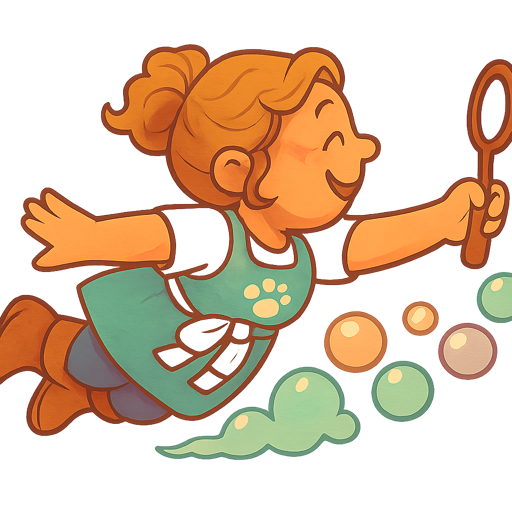
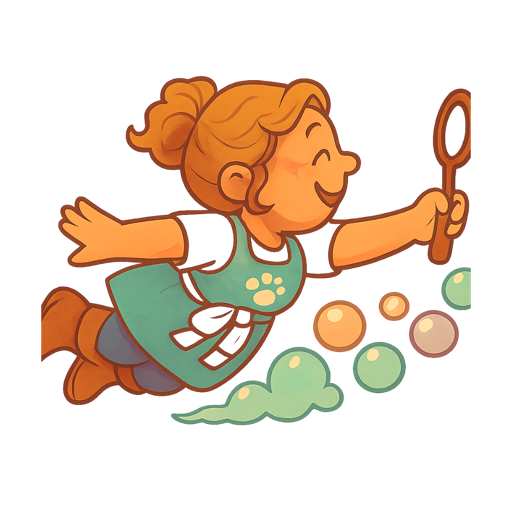
Play over the internet: npm run share (Cloudflare quick tunnel) and PUBLIC_URL
The QR code points at the public link when sharing; dev endpoints, the
public-url setter and the board role are limited to this machine so a
public link cannot reset or drive the game. Also lands the per-hero
flying sprites (stopgap frames until image credits are topped up).

diff --git a/server/index.js b/server/index.js
@@ -31,10 +31,24 @@ app.get('/', (req, res) => res.redirect('/board/'));
 
 const room = crypto.randomBytes(2).toString('hex').toUpperCase().replace(/[^A-Z0-9]/g, 'A').slice(0, 4);
 const ip = lanIp();
-const joinUrl = `http://${ip}:${PORT}/play/?room=${room}`;
+// PUBLIC_URL (e.g. https://my-tunnel.example.com) makes the QR code point at a public address; otherwise the LAN address is used.
+const lanJoinUrl = `http://${ip}:${PORT}/play/?room=${room}`;
+const publicJoin = (base) => `${String(base).replace(/\/+$/, '')}/play/?room=${room}`;
+let joinUrl = process.env.PUBLIC_URL ? publicJoin(process.env.PUBLIC_URL) : lanJoinUrl;
+// requests that come from this machine directly (not through a tunnel or proxy)
+function isLocalReq(addr, headers = {}) { const a = String(addr || ''); const loop = a === '127.0.0.1' || a === '::1' || a === '::ffff:127.0.0.1'; return loop && !headers['cf-connecting-ip'] && !headers['x-forwarded-for'] && !headers['x-real-ip']; }
 const game = new Game({ room, joinUrl, winTarget: Number(process.env.WIN_TARGET || 12), grabbleTarget: Number(process.env.GRABBLE_TARGET || 7) });
 
-app.get('/api/info', (req, res) => res.json({ room, joinUrl, lanIp: ip, port: PORT }));
+app.get('/api/info', (req, res) => res.json({ room, joinUrl, lanJoinUrl, lanIp: ip, port: PORT }));
+// the share script registers the tunnel's public address here (local requests only)
+app.post('/api/public-url', (req, res) => {
+  if (!isLocalReq(req.socket.remoteAddress, req.headers)) return res.status(403).json({ ok: false });
+  const base = String(req.body?.url || ''); if (base && !/^https?:\/\/[^\s]+$/.test(base)) return res.status(400).json({ ok: false, error: 'bad url' });
+  joinUrl = base ? publicJoin(base) : lanJoinUrl; game.joinUrl = joinUrl; game.pushState();
+  console.log(`  Phones (anywhere):            ${joinUrl}`); res.json({ ok: true, joinUrl });
+});
+// dev helpers are for this machine only, never through the public link
+app.use('/api/dev', (req, res, next) => isLocalReq(req.socket.remoteAddress, req.headers) ? next() : res.status(403).json({ ok: false, error: 'local only' }));
 app.get('/api/state', (req, res) => res.json(game.toState()));
 app.get('/api/qr.svg', async (req, res) => { const url = String(req.query.url || joinUrl); res.type('svg').send(await QRCode.toString(url, { type: 'svg', margin: 1, color: { dark: '#2B2440', light: '#00000000' } })); });
 // dev helpers (used by tests and the grader)
@@ -69,9 +83,11 @@ game.on('event', e => io.emit('event', e));
 let boardSockets = new Set();
 io.on('connection', socket => {
   socket.emit('state', game.toState());
-  socket.on('board:hello', (p = {}) => { boardSockets.add(socket.id); socket.data.isBoard = true; game.setBoardConnected(true, !!p.ready); });
+  // only a board on this machine drives the game (a board opened through the public link just watches)
+  const localSocket = isLocalReq(socket.handshake.address, socket.handshake.headers) || process.env.ALLOW_REMOTE_BOARD === '1';
+  socket.on('board:hello', (p = {}) => { if (!localSocket) return; boardSockets.add(socket.id); socket.data.isBoard = true; game.setBoardConnected(true, !!p.ready); });
   socket.on('board:ready', () => { if (socket.data.isBoard) game.setBoardReady(true); });
-  socket.on('board:animDone', ({ eventId } = {}) => game.ackEvent(eventId));
+  socket.on('board:animDone', ({ eventId } = {}) => { if (socket.data.isBoard) game.ackEvent(eventId); });
   socket.on('player:join', (payload, ack = () => {}) => { const r = game.join({ name: payload?.name, heroId: payload?.heroId, room: payload?.room, socketId: socket.id }); if (r.ok) socket.data.playerId = r.playerId; ack(r); });
   socket.on('player:rejoin', (payload, ack = () => {}) => { const r = game.rejoin({ token: payload?.token, socketId: socket.id }); if (r.ok) socket.data.playerId = r.playerId; ack(r); });
   socket.on('player:leave', (p, ack = () => {}) => { if (socket.data.playerId) game.removePlayer(socket.data.playerId); ack({ ok: true }); });
@@ -98,5 +114,7 @@ io.on('connection', socket => {
 server.listen(PORT, '0.0.0.0', () => {
   console.log(`\n  Kyah & Ayva: Starlight Gem Chase`);
   console.log(`  Board (open on the laptop):  http://localhost:${PORT}/board/`);
-  console.log(`  Phones (same Wi-Fi):         ${joinUrl}\n`);
+  console.log(`  Phones (same Wi-Fi):         ${lanJoinUrl}`);
+  if (process.env.PUBLIC_URL) console.log(`  Phones (anywhere):            ${joinUrl}`);
+  console.log('');
 });

diff --git a/README.md b/README.md
@@ -13,6 +13,19 @@ Then open **http://localhost:3000/board/** on the laptop (full-screen it, sound 
 
 Environment (`.env`): `PORT` (default 3000), `WIN_TARGET` (default 10; use 6 for a short game), `GRABBLE_TARGET` (default 10). API keys are only needed to regenerate assets.
 
+## Play over the internet (a link that works anywhere)
+
+```bash
+npm run share
+```
+
+This starts the game and a free Cloudflare quick tunnel (no account needed; install once with `brew install cloudflared`). It prints a public `https://….trycloudflare.com/play/?room=XXXX` link and the QR code on the board switches to it, so players can join from any network, including mobile data. Open the board on the laptop at the `localhost` address it prints. Notes:
+
+- The link changes every time you run it; share the new one (or let people scan the board).
+- A brand-new link can take up to a minute before some networks can resolve it.
+- Only the laptop drives the game: dev endpoints and the board role are refused through the public link, and a board opened through it only watches.
+- For a permanent address, run the server anywhere with a fixed URL and set `PUBLIC_URL=https://your.domain npm start` so the QR code uses it.
+
 ## How to play (short)
 
 Roll and scurry along the winding path through the village, collecting **Starlight Shards**. Special spaces start a quick **mini-game on your phone**: flap through flower rings on a Fairy Flight, find the twinkling flower, slide Charli to catch shards, dodge Grabble's net, catch strawberries for the cake. **Grabble** the gem snatcher scurries around after every turn, snatching shards into his loot bag; catch up with him for a Vine Grab, or land on **Launch the Catcher** to send a friend (or Grabble!) to the Bridge, ring the bell, and watch the Starlight Catcher run its chain reaction around the whole village. **Ten shards** make the Gem whole and win. If Grabble fills his bag first, everyone loses. Full rules: `docs/game-design-v2.md` (v1 base in `docs/game-design.md`).
